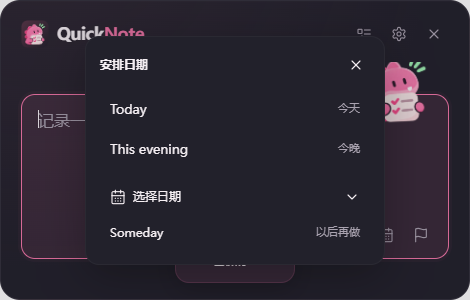
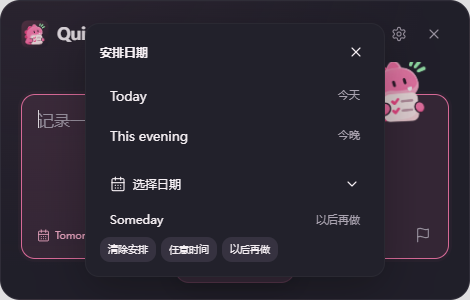
feat: animate date summaries and unify task capture

diff --git a/src/main.tsx b/src/main.tsx
@@ -1,4 +1,4 @@
-import{TimeWorkspace}from'./TimeWorkspace';import{TaskEditor,DatesFields,emptyDates,Dates}from'./TaskEditor';import{planGroup}from'./deadline';
+import{TimeWorkspace}from'./TimeWorkspace';import{TaskEditor,DatesFields,emptyDates,Dates}from'./TaskEditor';import{planGroup}from'./deadline';
 import React,{useEffect,useRef,useState}from'react';import{createRoot}from'react-dom/client';import{AnimatePresence,motion}from'framer-motion';import{ListTodo,Settings,X,Check,Pencil,Trash2,Search,ChevronDown,ChevronRight,Plus,ArrowLeft,Copy,Pin,CalendarDays,Inbox,CalendarCheck,CalendarRange,Layers,Sun,Moon,Monitor,Palette,Keyboard,SlidersHorizontal,Database,Info,Archive,RotateCcw,FolderOpen,Undo2,MoreHorizontal,RefreshCw,Clock}from'lucide-react';import{Note,day,tomorrow,weekEnd,group,sortNotes}from'./timeline';import './style.css';
 declare global{interface Window{quicknote:{call:(a:string,p?:unknown)=>Promise<any>;on:(e:string,f:(p:any)=>void)=>()=>void}}}const api=window.quicknote;const groups=['收件箱','今天','明天','本周','以后','已完成'];const groupIcons=[Inbox,CalendarCheck,CalendarDays,CalendarRange,Layers,Check];const settingTabs=[['appearance','外观',Palette],['shortcuts','快捷键',Keyboard],['behavior','行为',SlidersHorizontal],['reminders','提醒',Clock],['data','数据',Database],['about','关于',Info]]as const;
 function App(){const[cfg,C]=useState<any>({theme:'dark',view:'capture',notes:[],shortcutStatus:{}}),[notes,N]=useState<Note[]>([]),[text,T]=useState(''),[query,Q]=useState(''),[edit,E]=useState(''),[filter,B]=useState('收件箱'),[completed,H]=useState(false),[visible,V]=useState(true),[toast,F]=useState<{text:string;undo?:boolean}|null>(null),[recording,R]=useState(''),[settingsTab,ST]=useState('appearance'),[schedule,SD]=useState(''),[now,Now]=useState(new Date());const[taskEdit,TE]=useState<Note|null>(null),[creation,CD]=useState<Dates>(emptyDates),[calendarDate,CAL]=useState(day());const input=useRef<HTMLTextAreaElement>(null),ref=useRef<Note[]>([]),undo=useRef<Note[]|null>(null),saving=useRef(false),composing=useRef(false),compositionEnd=useRef(0),timer=useRef<ReturnType<typeof setTimeout>|undefined>(undefined),toastTimer=useRef<ReturnType<typeof setTimeout>|undefined>(undefined),textRef=useRef(''),editRef=useRef(''),dirty=useRef(false),writeQueue=useRef(Promise.resolve()),recordingRef=useRef('');ref.current=notes;editRef.current=edit;recordingRef.current=recording;
@@ -16,7 +16,7 @@ async function switchView(view:string){await flush();if(editRef.current){editRef
 async function restoreUndo(){if(!undo.current)return;const n=undo.current;if(await persist(n)){undo.current=null;msg('已撤销')}}
 useEffect(()=>{api.call('get').then(load);const unsub=[api.on('config',load),api.on('visibility',v=>{V(v);if(!v)flush()}),api.on('focus',()=>{V(true);setTimeout(()=>input.current?.focus(),20)}),api.on('edit',start),api.on('delete',remove),api.on('complete',toggle),api.on('pin',pin),api.on('schedule',start)];const keys=(e:KeyboardEvent)=>{if(e.key==='Escape'){e.preventDefault();if(recordingRef.current)R('');else if(document.querySelector('.task-editor'))TE(null);else{flush();api.call('hide')}}if(e.ctrlKey&&e.key.toLowerCase()==='z'&&!(e.target instanceof HTMLInputElement||e.target instanceof HTMLTextAreaElement)){e.preventDefault();restoreUndo()}};document.addEventListener('keydown',keys);const clock=setInterval(()=>Now(new Date()),60000);return()=>{unsub.forEach(f=>f?.());document.removeEventListener('keydown',keys);clearInterval(clock);clearTimeout(timer.current)}},[]);
 function openNewTask(){const date=new Date();let dueDate:string|null=null;if(filter==='今天')dueDate=day(date);if(filter==='明天')dueDate=tomorrow(date);if(filter==='本周')dueDate=weekEnd(date);if(filter==='即将到来'){date.setDate(date.getDate()+1);dueDate=day(date)}if(filter==='日历')dueDate=calendarDate;TE({id:'',text:textRef.current,created:Date.now(),done:false,dueDate,schedule:filter==='以后'?'later':filter==='任意时间'?'anytime':'inbox',deadlineDate:filter==='Deadline'?day():null})}
-async function add(){if(!text.trim()||saving.current||composing.current)return;if(cfg.view==='tasks'){openNewTask();return;}saving.current=true;try{await flush();const d=await api.call('commit',{text:textRef.current,id:editRef.current||undefined,context:cfg.view==='tasks'?filter:'收件箱',...(cfg.view==='capture'?creation:filter==='日历'?{dueDate:calendarDate,schedule:'inbox'}:{})});N(d.notes);ref.current=d.notes;E('');editRef.current='';dirty.current=false;setText(d.draft||'');CD({...emptyDates,...d.draftDates});msg('已保存');input.current?.focus()}catch(e){msg(String(e))}finally{saving.current=false}}
+async function add(){if(!text.trim()||saving.current||composing.current)return;saving.current=true;try{await flush();const d=await api.call('commit',{text:textRef.current,id:editRef.current||undefined,context:cfg.view==='tasks'?filter:'收件箱',...creation});N(d.notes);ref.current=d.notes;E('');editRef.current='';dirty.current=false;setText(d.draft||'');CD(cfg.view==='tasks'?{...emptyDates,dueDate:filter==='今天'?day():filter==='即将到来'?tomorrow():filter==='日历'?calendarDate:null,schedule:filter==='以后'?'later':filter==='任意时间'?'anytime':'inbox'}:{...emptyDates,...d.draftDates});msg('已保存');input.current?.focus()}catch(e){msg(String(e))}finally{saving.current=false}}
 async function setting(change:any){try{const d=await api.call('settings',{...cfg,...change});load(d)}catch(e){msg(String(e));const d=await api.call('get');C(d)}}
 function hotkey(e:React.KeyboardEvent,key:string){e.preventDefault();e.stopPropagation();if(e.key==='Escape'){R('');return}if(['Control','Shift','Alt','Meta'].includes(e.key))return;if(!(e.ctrlKey||e.altKey||e.metaKey)){msg('请使用 Ctrl、Alt 或 Win 组合键');return}const k=[e.ctrlKey?'Control':'',e.altKey?'Alt':'',e.shiftKey?'Shift':'',e.metaKey?'Super':'',e.code==='Space'?'Space':e.key.length===1?e.key.toUpperCase():e.key].filter(Boolean).join('+');setting({[key]:k});R('')}
 function plan(id:string,dueDate:string|null,later=false){persist(ref.current.map(n=>n.id===id?{...n,dueDate,schedule:later?'later':'inbox',updatedAt:Date.now()}:n));SD('')}
@@ -24,11 +24,12 @@ async function dataAction(action:string){await flush();if(action==='restore'){ed
 async function saveTask(n:Note){if(n.id)return persist(ref.current.map(x=>x.id===n.id?n:x));try{const d=await api.call('commit',n);N(d.notes);ref.current=d.notes;dirty.current=false;setText(d.draft||'');msg('已保存');return true}catch(e){msg(String(e));return false}}
 function changeCreation(v:Dates){CD(v);api.call('draft-meta',v).catch(e=>msg(String(e)))}
 const mode=cfg.view||'capture',theme=cfg.theme==='system'?(cfg.systemDark?'dark':'light'):cfg.theme;const filtered=notes.filter(n=>n.text.toLowerCase().includes(query.toLowerCase())),pending=filtered.filter(n=>!n.done).sort(sortNotes),done=filtered.filter(n=>n.done).sort((a,b)=>(b.completedAt||b.created)-(a.completedAt||a.created));const recent=[...notes].sort((a,b)=>b.created-a.created).slice(0,3);
-const editor=<textarea ref={input} rows={2} placeholder={mode==='capture'?'记录一件未完成的事情...':'添加一项待办...'} value={text} onChange={e=>changeText(e.target.value)} onCompositionStart={()=>{composing.current=true}} onCompositionEnd={()=>{composing.current=false;compositionEnd.current=Date.now()}} onKeyDown={e=>{if(e.key==='Enter'&&!e.shiftKey&&!composing.current&&!e.nativeEvent.isComposing&&e.keyCode!==229&&Date.now()-compositionEnd.current>80){e.preventDefault();add()}}}/>;
+const editor=<textarea ref={input} rows={2} placeholder={cfg.capturePlaceholder||'记录一件未完成的事情...'} value={text} onChange={e=>changeText(e.target.value)} onCompositionStart={()=>{composing.current=true}} onCompositionEnd={()=>{composing.current=false;compositionEnd.current=Date.now()}} onKeyDown={e=>{if(e.key==='Enter'&&!e.shiftKey&&!composing.current&&!e.nativeEvent.isComposing&&e.keyCode!==229&&Date.now()-compositionEnd.current>80){e.preventDefault();add()}}}/>;
 function row(n:Note,compact=false){return <motion.div layout data-task={n.id} className={'task '+(n.done?'done ':'')+(n.isPinned?'pinned':'')} key={n.id} initial={{opacity:0,y:4}} animate={{opacity:1,y:0}} exit={{opacity:0,height:0}} transition={{duration:.18}} onContextMenu={e=>{e.preventDefault();api.call('context',n.id)}}><button className="check" title="切换完成" onClick={()=>toggle(n.id)}>{n.done&&<Check/>}</button><div className="task-body"><p>{n.isPinned&&<Pin className="pink"/>}{n.text}</p><small>{n.dueDate?<><CalendarDays/> {n.dueDate}{n.dueDate<day(now)&&!n.done?' · 计划待重排':''}</>:new Date(n.created).toLocaleString('zh-CN',{month:'numeric',day:'numeric',hour:'2-digit',minute:'2-digit'})}</small></div><div className="actions"><button title={n.isPinned?'取消置顶':'重要置顶'} onClick={()=>pin(n.id)}><Pin/></button>{!compact&&<button title="计划日期" onClick={()=>SD(schedule===n.id?'':n.id)}><CalendarDays/></button>}<button title="编辑" onClick={()=>start(n.id)}><Pencil/></button><button title="复制" onClick={()=>{api.call('copy',n.text);msg('已复制')}}><Copy/></button><button title="删除" onClick={()=>remove(n.id)}><Trash2/></button></div></motion.div>}
 return <motion.main data-theme={theme} className={mode} animate={{opacity:visible?1:0,scale:visible?1:.99,y:visible?0:-4}} transition={{duration:.2,ease:'easeOut'}}><header><div className="brand">{mode!=='capture'&&<button title="快速记录" onClick={()=>switchView('capture')}><ArrowLeft/></button>}<img src={theme==='light'?'./app-icon-light.png':'./app-icon.png'} alt=""/><span>{mode==='capture'?<>Quick<span className="pink">Note</span></>:mode==='tasks'?'待办事项':'偏好设置'}</span>{mode==='tasks'&&<small>{notes.filter(n=>!n.done).length}</small>}</div><div className="tools">{mode!=='tasks'&&<button title="查看待办" onClick={()=>switchView('tasks')}><ListTodo/></button>}{mode==='tasks'&&<button title="打开日历" onClick={()=>B(filter==='日历'?'全部':'日历')}><CalendarDays/></button>}{mode!=='settings'&&<button title="设置" onClick={()=>switchView('settings')}><Settings/></button>}<button title="关闭" onClick={()=>{flush();api.call('hide')}}><X/></button></div></header>
-{mode==='capture'?<section className="capture-body"><img className="capture-mascot" src="./brand/mascot.png" alt=""/><div className={'capture-input '+(toast?.text==='已保存'?'saved':'')}>{editor}<DatesFields compact value={creation} onChange={changeCreation}/></div></section>:mode==='tasks'?<TimeWorkspace notes={notes} filter={filter} onFilter={B} onEdit={TE} onToggle={toggle} onPin={pin} onDelete={remove} onCopy={s=>{api.call('copy',s);msg('已复制')}} editor={editor} now={now} horizon={cfg.deadlineHorizon||3} onDate={CAL} onNew={openNewTask}/>:<div className="split"><nav>{settingTabs.map(([key,label,Icon])=><button key={key} className={settingsTab===key?'selected':''} onClick={()=>ST(key)}><Icon/>{label}</button>)}<img className="nav-mascot" src="./brand/settings.png" alt=""/></nav><section className="settings-body"><h2>{settingTabs.find(t=>t[0]===settingsTab)?.[1]}</h2>{settingsTab==='appearance'?<><p className="muted">让 QuickNote 与你的桌面相处融洽。</p><div className="theme-choices">{[['dark','深色',Moon],['light','浅色',Sun],['system','跟随系统',Monitor]].map(([v,label,Icon]:any)=><button key={v} className={cfg.theme===v?'chosen':''} onClick={()=>setting({theme:v})}><Icon/><span>{label}</span></button>)}</div><div className="brand-preview"><img src="./brand/mascot.png" alt=""/><div><b>轻轻记下，慢慢完成。</b><p>QuickNote · Pink Edition</p></div></div></>:settingsTab==='shortcuts'?<><p className="muted">点击组合键，再按下新的快捷键。</p>{[['shortcut','快速记录',Pencil],['tasksShortcut','查看待办',ListTodo]].map(([key,label,Icon]:any)=>{const status=cfg.shortcutStatus?.[key];return <div className="shortcut-card" key={key}><div className="setting-row"><span><Icon/>{label}</span><button className={'keycap '+(recording===key?'listening':'')} onClick={()=>R(key)} onKeyDown={e=>{if(recording===key)hotkey(e,key)}}>{recording===key?'请按下组合键…':cfg[key]?.replaceAll('Control','Ctrl')}</button></div><div className={'registration '+(status?.registered?'success':status?.status==='conflict'?'warning':'error')}>{status?.registered?<Check/>:<Info/>}{status?.registered?'已成功注册':status?.message||'未注册'}</div></div>})}<button className="secondary" onClick={()=>api.call('retry-shortcuts').then(load).catch(e=>msg(String(e)))}><RefreshCw/>重新检测并注册</button></>:settingsTab==='behavior'?<>{[['startup','开机启动'],['background','启动后后台运行'],['keepOpen','保存后保持窗口打开'],['hideOnBlur','点击窗口外部自动隐藏']].map(([key,label])=><div className="setting-row option" key={key}><span>{label}</span><button role="switch" aria-label={label} aria-checked={!!cfg[key]} className={'toggle '+(cfg[key]?'on':'')} onClick={()=>setting({[key]:!cfg[key]})}><span/></button></div>)}</>:settingsTab==='reminders'?<><p className='muted'>提醒仅在 QuickNote 运行时发送；退出后不会发送。重启后恢复待触发提醒。</p><div className='setting-row option'><span>启用 Windows 通知</span><button role='switch' aria-label='启用通知' aria-checked={!!cfg.notificationsEnabled} className={'toggle '+(cfg.notificationsEnabled?'on':'')} onClick={()=>setting({notificationsEnabled:!cfg.notificationsEnabled})}><span/></button></div><label className='setting-row'>即将截止范围（自然日）<input type='number' min='1' max='14' value={cfg.deadlineHorizon||3} onChange={e=>setting({deadlineHorizon:Number(e.target.value)})}/></label><button className='secondary' onClick={()=>api.call('notification-test').then(()=>msg('已请求发送通知，请检查系统通知设置')).catch(e=>msg(String(e)))}>测试通知</button></>:settingsTab==='data'?<><div className="backup-info"><Archive/><div><b>每日自动备份</b><p>最近备份：{cfg.lastBackup||'尚无备份'} · 保留最近 7 份</p></div></div>{cfg.backupWarning&&<p className="warning">{cfg.backupWarning}</p>}<div className="data-grid">{[['export','导出全部数据',Archive],['import','导入记录',Database],['restore','从备份恢复',RotateCcw],['path','打开保存位置',FolderOpen]].map(([a,label,Icon]:any)=><button key={a} onClick={()=>dataAction(a)}><Icon/>{label}</button>)}</div><p className="muted">恢复前校验版本与记录，并备份当前数据。导入只合并任务；恢复会替换任务、设置与草稿。</p></>:<div className="about"><img src={theme==='light'?'./app-icon-light.png':'./app-icon.png'} alt="QuickNote"/><h2>QuickNote</h2><span>版本 {cfg.version||'4.0.0'}</span><p>快捷键驱动的本地快速记录与时间待办。</p><small>个人使用的非官方二创视觉，素材由用户提供。</small><h3>开源依赖与许可证</h3><p>React / React DOM · MIT<br/>Electron · MIT<br/>Framer Motion · MIT<br/>Lucide · ISC<br/>Vite · MIT / TypeScript · Apache-2.0</p><a href="./licenses.txt" target="_blank" onClick={e=>{e.preventDefault();api.call('licenses').catch(e=>msg(String(e)))}}>查看许可证说明</a></div>}</section></div>}
+{mode==='capture'?<section className="capture-body"><img className="capture-mascot" src="./brand/mascot.png" alt=""/><div className={'capture-input '+(toast?.text==='已保存'?'saved':'')}>{editor}<DatesFields compact value={creation} onChange={changeCreation}/></div></section>:mode==='tasks'?<TimeWorkspace notes={notes} filter={filter} onFilter={v=>{B(v);let dueDate:string|null=null;const d=new Date();if(v==='今天')dueDate=day(d);if(v==='即将到来')dueDate=tomorrow(d);if(v==='日历')dueDate=calendarDate;changeCreation({...emptyDates,dueDate,schedule:v==='以后'?'later':v==='任意时间'?'anytime':'inbox'})}} onEdit={TE} onToggle={toggle} onPin={pin} onDelete={remove} onCopy={s=>{api.call('copy',s);msg('已复制')}} editor={<div className="task-capture">{editor}<DatesFields compact value={creation} onChange={changeCreation}/></div>} now={now} horizon={cfg.deadlineHorizon||3} onDate={d=>{CAL(d);changeCreation({...emptyDates,dueDate:d})}} onNew={openNewTask}/>:<div className="split"><nav>{settingTabs.map(([key,label,Icon])=><button key={key} className={settingsTab===key?'selected':''} onClick={()=>ST(key)}><Icon/>{label}</button>)}<img className="nav-mascot" src="./brand/settings.png" alt=""/></nav><section className="settings-body"><h2>{settingTabs.find(t=>t[0]===settingsTab)?.[1]}</h2>{settingsTab==='appearance'?<><p className="muted">让 QuickNote 与你的桌面相处融洽。</p><div className="theme-choices">{[['dark','深色',Moon],['light','浅色',Sun],['system','跟随系统',Monitor]].map(([v,label,Icon]:any)=><button key={v} className={cfg.theme===v?'chosen':''} onClick={()=>setting({theme:v})}><Icon/><span>{label}</span></button>)}</div><label className="placeholder-setting">快速记录占位文字<input maxLength={100} aria-label="快速记录占位文字" defaultValue={cfg.capturePlaceholder||'记录一件未完成的事情...'} onBlur={e=>setting({capturePlaceholder:e.target.value.trim()||'记录一件未完成的事情...'})}/><small>编辑后离开输入框即保存</small></label><div className="brand-preview"><img src="./brand/mascot.png" alt=""/><div><b>轻轻记下，慢慢完成。</b><p>QuickNote · Pink Edition</p></div></div></>:settingsTab==='shortcuts'?<><p className="muted">点击组合键，再按下新的快捷键。</p>{[['shortcut','快速记录',Pencil],['tasksShortcut','查看待办',ListTodo]].map(([key,label,Icon]:any)=>{const status=cfg.shortcutStatus?.[key];return <div className="shortcut-card" key={key}><div className="setting-row"><span><Icon/>{label}</span><button className={'keycap '+(recording===key?'listening':'')} onClick={()=>R(key)} onKeyDown={e=>{if(recording===key)hotkey(e,key)}}>{recording===key?'请按下组合键…':cfg[key]?.replaceAll('Control','Ctrl')}</button></div><div className={'registration '+(status?.registered?'success':status?.status==='conflict'?'warning':'error')}>{status?.registered?<Check/>:<Info/>}{status?.registered?'已成功注册':status?.message||'未注册'}</div></div>})}<button className="secondary" onClick={()=>api.call('retry-shortcuts').then(load).catch(e=>msg(String(e)))}><RefreshCw/>重新检测并注册</button></>:settingsTab==='behavior'?<>{[['startup','开机启动'],['background','启动后后台运行'],['keepOpen','保存后保持窗口打开'],['hideOnBlur','点击窗口外部自动隐藏']].map(([key,label])=><div className="setting-row option" key={key}><span>{label}</span><button role="switch" aria-label={label} aria-checked={!!cfg[key]} className={'toggle '+(cfg[key]?'on':'')} onClick={()=>setting({[key]:!cfg[key]})}><span/></button></div>)}</>:settingsTab==='reminders'?<><p className='muted'>提醒仅在 QuickNote 运行时发送；退出后不会发送。重启后恢复待触发提醒。</p><div className='setting-row option'><span>启用 Windows 通知</span><button role='switch' aria-label='启用通知' aria-checked={!!cfg.notificationsEnabled} className={'toggle '+(cfg.notificationsEnabled?'on':'')} onClick={()=>setting({notificationsEnabled:!cfg.notificationsEnabled})}><span/></button></div><label className='setting-row'>即将截止范围（自然日）<input type='number' min='1' max='14' value={cfg.deadlineHorizon||3} onChange={e=>setting({deadlineHorizon:Number(e.target.value)})}/></label><button className='secondary' onClick={()=>api.call('notification-test').then(()=>msg('已请求发送通知，请检查系统通知设置')).catch(e=>msg(String(e)))}>测试通知</button></>:settingsTab==='data'?<><div className="backup-info"><Archive/><div><b>每日自动备份</b><p>最近备份：{cfg.lastBackup||'尚无备份'} · 保留最近 7 份</p></div></div>{cfg.backupWarning&&<p className="warning">{cfg.backupWarning}</p>}<div className="data-grid">{[['export','导出全部数据',Archive],['import','导入记录',Database],['restore','从备份恢复',RotateCcw],['path','打开保存位置',FolderOpen]].map(([a,label,Icon]:any)=><button key={a} onClick={()=>dataAction(a)}><Icon/>{label}</button>)}</div><p className="muted">恢复前校验版本与记录，并备份当前数据。导入只合并任务；恢复会替换任务、设置与草稿。</p></>:<div className="about"><img src={theme==='light'?'./app-icon-light.png':'./app-icon.png'} alt="QuickNote"/><h2>QuickNote</h2><span>版本 {cfg.version||'4.0.0'}</span><p>快捷键驱动的本地快速记录与时间待办。</p><small>个人使用的非官方二创视觉，素材由用户提供。</small><h3>开源依赖与许可证</h3><p>React / React DOM · MIT<br/>Electron · MIT<br/>Framer Motion · MIT<br/>Lucide · ISC<br/>Vite · MIT / TypeScript · Apache-2.0</p><a href="./licenses.txt" target="_blank" onClick={e=>{e.preventDefault();api.call('licenses').catch(e=>msg(String(e)))}}>查看许可证说明</a></div>}</section></div>}
 {taskEdit&&<TaskEditor key={taskEdit.id||'new'} task={taskEdit} onSave={saveTask} onClose={()=>TE(null)}/>}<AnimatePresence>{toast&&<motion.div className="toast" initial={{opacity:0,y:12}} animate={{opacity:1,y:0}} exit={{opacity:0,y:8}}><Check/><span>{toast.text}</span>{toast.undo&&<button onClick={restoreUndo}><Undo2/>撤销</button>}<button title="关闭提示" onClick={()=>F(null)}><X/></button></motion.div>}</AnimatePresence></motion.main>};createRoot(document.getElementById('root')!).render(<App/>);
 
 
 import './time.css';
+

diff --git a/src/TaskEditor.tsx b/src/TaskEditor.tsx
@@ -1,5 +1,5 @@
-import{MonthPicker}from'./MonthPicker';import React,{useState,useEffect}from'react';import{X,CalendarDays,Bell,Pin,ChevronDown}from'lucide-react';import{DeadlineIcon}from'./DeadlineIcon';import{Note,day,tomorrow}from'./timeline';import{shift,deadlineAt}from'./deadline';
+import{motion,AnimatePresence}from'framer-motion';import{dateSummary,daysLeft}from'./date-summary';import{MonthPicker}from'./MonthPicker';import React,{useState,useEffect}from'react';import{X,CalendarDays,Bell,Pin,ChevronDown}from'lucide-react';import{DeadlineIcon}from'./DeadlineIcon';import{Note,day,tomorrow}from'./timeline';import{shift,deadlineAt}from'./deadline';
 export type Dates={dueDate:string|null;schedule:string;planPeriod?:string;deadlineDate:string|null;deadlineTime:string|null;reminderAt:number|null;isPinned:boolean};export const emptyDates:Dates={dueDate:null,schedule:'inbox',planPeriod:'day',deadlineDate:null,deadlineTime:null,reminderAt:null,isPinned:false};
 const localInput=(t:number|null)=>{if(!t)return '';const d=new Date(t);return `${day(d)}T${String(d.getHours()).padStart(2,'0')}:${String(d.getMinutes()).padStart(2,'0')}`};
-export function DatesFields({value:v,onChange,compact=false}:{value:Dates;onChange:(v:Dates)=>void;compact?:boolean}){const[open,O]=useState<'plan'|'deadline'|null>(null),[more,M]=useState(false),[calendar,C]=useState(false);useEffect(()=>{if(compact)window.quicknote.call('picker-size',open&&(calendar||open==='deadline')?480:300).catch(()=>{});return()=>{if(compact)window.quicknote.call('picker-size',300).catch(()=>{})}},[open,calendar,compact]);const set=(p:Partial<Dates>)=>onChange({...v,...p});useEffect(()=>{if(!open)return;const close=(e:KeyboardEvent)=>{if(e.key==='Escape'){e.preventDefault();e.stopImmediatePropagation();O(null)}};window.addEventListener('keydown',close,true);return()=>window.removeEventListener('keydown',close,true)},[open]);return <div className={'dates-fields date-summary '+(compact?'compact':'')}><div className="date-chips"><button aria-expanded={open==='plan'} title="安排计划日期" className={v.dueDate||v.schedule==='later'?'active':''} onClick={()=>O(open==='plan'?null:'plan')}><CalendarDays/>{v.dueDate===day()&&v.planPeriod==='evening'?'今晚':v.dueDate===day()?'今天':v.dueDate===tomorrow()?'明天':v.dueDate|| (v.schedule==='later'?'以后':v.schedule==='anytime'?'任意时间':'安排')}</button><button aria-expanded={open==='deadline'} title="设置截止日期" className={v.deadlineDate?'active':''} onClick={()=>O(open==='deadline'?null:'deadline')}><DeadlineIcon/>{v.deadlineDate?`${v.deadlineDate} 截止`:'截止'}</button>{!compact&&<button className={v.isPinned?'pink':''} onClick={()=>set({isPinned:!v.isPinned})}><Pin/>{v.isPinned?'重要置顶':'标记重要'}</button>}</div>{open&&<div className="date-popover-shade" onClick={()=>O(null)}><section className="date-popover" role="dialog" aria-label={open==='plan'?'安排日期':'截止日期'} onClick={e=>e.stopPropagation()}><div className="plan-title"><b>{open==='plan'?'安排日期':'截止日期'}</b><button title="关闭日期浮层" onClick={()=>O(null)}><X/></button></div>{open==='plan'&&<div className="when-shortcuts"><button onClick={()=>{set({dueDate:day(),schedule:'inbox',planPeriod:'day'});O(null)}}>Today <span>今天</span></button><button onClick={()=>{set({dueDate:day(),schedule:'inbox',planPeriod:'evening'});O(null)}}>This evening <span>今晚</span></button></div>}{open==='plan'&&<button className="expand-calendar" aria-expanded={calendar} onClick={()=>C(!calendar)}><CalendarDays/>选择日期<ChevronDown/></button>}{(calendar||open==='deadline')&&<MonthPicker value={open==='plan'?v.dueDate:v.deadlineDate} onSelect={date=>{set(open==='plan'?{dueDate:date,schedule:'inbox',planPeriod:'day'}:{deadlineDate:date,...(compact?{deadlineTime:null}:{})});O(null)}}/>}{open==='plan'&&<button className="someday-shortcut" onClick={()=>{set({dueDate:null,schedule:'later',planPeriod:'day'});O(null)}}>Someday <span>以后再做</span></button>}{open==='plan'?(!compact&&<div className="date-chips"><button onClick={()=>{set({dueDate:null,schedule:'inbox',planPeriod:'day'});O(null)}}>移回收件箱</button><button onClick={()=>{set({dueDate:null,schedule:'anytime',planPeriod:'day'});O(null)}}>任意时间</button><button onClick={()=>{set({dueDate:null,schedule:'later',planPeriod:'day'});O(null)}}>以后再做</button></div>):<>{!compact&&<><button className="popover-more" aria-expanded={more} onClick={()=>M(!more)}><ChevronDown/>更多选项{v.deadlineTime||v.reminderAt?' · 已设置':''}</button>{more&&<div className="popover-options"><label>截止时间（可选）<input aria-label="截止时间" type="time" disabled={!v.deadlineDate} value={v.deadlineTime||''} onChange={e=>set({deadlineTime:e.target.value||null})}/></label><label><Bell/>提醒<input aria-label="提醒时间" type="datetime-local" value={localInput(v.reminderAt)} onChange={e=>set({reminderAt:e.target.value?new Date(e.target.value).getTime():null})}/></label><div className="date-chips">{[['不提醒',null],['前1天',86400000],['前3小时',10800000],['前1小时',3600000]].map(([label,offset])=><button key={String(label)} disabled={offset!==null&&!v.deadlineDate} onClick={()=>set({reminderAt:offset===null?null:(deadlineAt(v as unknown as Note)??Date.now())-Number(offset)})}>{label}</button>)}</div>{v.reminderAt&&v.deadlineDate&&v.reminderAt>(deadlineAt(v as unknown as Note)??Infinity)&&<p className="warning">提醒晚于截止时间，请确认。</p>}</div>}</>}<button className="popover-clear" onClick={()=>{set({deadlineDate:null,deadlineTime:null});O(null)}}>清除截止日期</button></>}</section></div>}</div>}
+export function DatesFields({value:v,onChange,compact=false}:{value:Dates;onChange:(v:Dates)=>void;compact?:boolean}){const[open,O]=useState<'plan'|'deadline'|null>(null),[more,M]=useState(false),[calendar,C]=useState(false);useEffect(()=>{if(compact)window.quicknote.call('picker-size',open&&(calendar||open==='deadline')?480:300).catch(()=>{});return()=>{if(compact)window.quicknote.call('picker-size',300).catch(()=>{})}},[open,calendar,compact]);const set=(p:Partial<Dates>)=>onChange({...v,...p});useEffect(()=>{if(!open)return;const close=(e:KeyboardEvent)=>{if(e.key==='Escape'){e.preventDefault();e.stopImmediatePropagation();O(null)}};window.addEventListener('keydown',close,true);return()=>window.removeEventListener('keydown',close,true)},[open]);return <div className={'dates-fields date-summary '+(compact?'compact':'')}><div className="selected-dates"><AnimatePresence initial={false}>{(v.dueDate||v.schedule==='later'||v.schedule==='anytime')&&<motion.button layout key="plan-label" className="date-label" title="安排计划日期" initial={{opacity:0,x:12}} animate={{opacity:1,x:0}} exit={{opacity:0,x:8}} onClick={()=>O('plan')}><CalendarDays/><span>{v.dueDate?(v.planPeriod==='evening'&&v.dueDate===day()?'This evening':dateSummary(v.dueDate)):v.schedule==='later'?'Someday':'Anytime'}</span></motion.button>}{v.deadlineDate&&<motion.button layout key="deadline-label" className="date-label" title="设置截止日期" initial={{opacity:0,x:12}} animate={{opacity:1,x:0}} exit={{opacity:0,x:8}} onClick={()=>O('deadline')}><DeadlineIcon/><span>{dateSummary(v.deadlineDate)} · {daysLeft(v.deadlineDate)}</span></motion.button>}</AnimatePresence></div><div className="date-chips date-entry-icons"><AnimatePresence initial={false}>{!v.dueDate&&v.schedule!=='later'&&v.schedule!=='anytime'&&<motion.button key="plan-icon" title="安排计划日期" initial={{opacity:0}} animate={{opacity:1}} exit={{opacity:0,scale:.85}} onClick={()=>O('plan')}><CalendarDays/></motion.button>}{!v.deadlineDate&&<motion.button key="deadline-icon" title="设置截止日期" initial={{opacity:0}} animate={{opacity:1}} exit={{opacity:0,scale:.85}} onClick={()=>O('deadline')}><DeadlineIcon/></motion.button>}</AnimatePresence>{!compact&&<button className={v.isPinned?'pink':''} onClick={()=>set({isPinned:!v.isPinned})}><Pin/></button>}</div>{open&&<div className="date-popover-shade" onClick={()=>O(null)}><section className="date-popover" role="dialog" aria-label={open==='plan'?'安排日期':'截止日期'} onClick={e=>e.stopPropagation()}><div className="plan-title"><b>{open==='plan'?'安排日期':'截止日期'}</b><button title="关闭日期浮层" onClick={()=>O(null)}><X/></button></div>{open==='plan'&&<div className="when-shortcuts"><button onClick={()=>{set({dueDate:day(),schedule:'inbox',planPeriod:'day'});O(null)}}>Today <span>今天</span></button><button onClick={()=>{set({dueDate:day(),schedule:'inbox',planPeriod:'evening'});O(null)}}>This evening <span>今晚</span></button></div>}{open==='plan'&&<button className="expand-calendar" aria-expanded={calendar} onClick={()=>C(!calendar)}><CalendarDays/>选择日期<ChevronDown/></button>}{(calendar||open==='deadline')&&<MonthPicker value={open==='plan'?v.dueDate:v.deadlineDate} onSelect={date=>{set(open==='plan'?{dueDate:date,schedule:'inbox',planPeriod:'day'}:{deadlineDate:date,...(compact?{deadlineTime:null}:{})});O(null)}}/>}{open==='plan'&&<button className="someday-shortcut" onClick={()=>{set({dueDate:null,schedule:'later',planPeriod:'day'});O(null)}}>Someday <span>以后再做</span></button>}{open==='plan'?(<div className="date-chips"><button onClick={()=>{set({dueDate:null,schedule:'inbox',planPeriod:'day'});O(null)}}>清除安排</button><button onClick={()=>{set({dueDate:null,schedule:'anytime',planPeriod:'day'});O(null)}}>任意时间</button><button onClick={()=>{set({dueDate:null,schedule:'later',planPeriod:'day'});O(null)}}>以后再做</button></div>):<>{!compact&&<><button className="popover-more" aria-expanded={more} onClick={()=>M(!more)}><ChevronDown/>更多选项{v.deadlineTime||v.reminderAt?' · 已设置':''}</button>{more&&<div className="popover-options"><label>截止时间（可选）<input aria-label="截止时间" type="time" disabled={!v.deadlineDate} value={v.deadlineTime||''} onChange={e=>set({deadlineTime:e.target.value||null})}/></label><label><Bell/>提醒<input aria-label="提醒时间" type="datetime-local" value={localInput(v.reminderAt)} onChange={e=>set({reminderAt:e.target.value?new Date(e.target.value).getTime():null})}/></label><div className="date-chips">{[['不提醒',null],['前1天',86400000],['前3小时',10800000],['前1小时',3600000]].map(([label,offset])=><button key={String(label)} disabled={offset!==null&&!v.deadlineDate} onClick={()=>set({reminderAt:offset===null?null:(deadlineAt(v as unknown as Note)??Date.now())-Number(offset)})}>{label}</button>)}</div>{v.reminderAt&&v.deadlineDate&&v.reminderAt>(deadlineAt(v as unknown as Note)??Infinity)&&<p className="warning">提醒晚于截止时间，请确认。</p>}</div>}</>}<button className="popover-clear" onClick={()=>{set({deadlineDate:null,deadlineTime:null});O(null)}}>清除截止日期</button></>}</section></div>}</div>}
 export function TaskEditor({task,onSave,onClose}:{task:Note;onSave:(n:Note)=>Promise<boolean>;onClose:()=>void}){const[n,N]=useState(task),[busy,B]=useState(false),[err,E]=useState('');return <div className="editor-shade" onClick={onClose}><section className="task-editor" role="dialog" aria-label="任务编辑" onClick={e=>e.stopPropagation()}><div className="plan-title"><b>任务详情</b><button title="关闭编辑" onClick={onClose}><X/></button></div><textarea autoFocus aria-label="任务内容" value={n.text} onChange={e=>N({...n,text:e.target.value})}/><DatesFields value={{...emptyDates,...n}} onChange={v=>N({...n,...v})}/>{err&&<p className="error">{err}</p>}<button className="editor-save" disabled={busy||!n.text.trim()} onClick={async()=>{B(true);try{if(await onSave({...n,text:n.text.trim(),updatedAt:Date.now()}))onClose();else E('保存失败，请重试')}catch(e){E(String(e))}finally{B(false)}}}>{busy?'保存中…':'保存任务'}</button></section></div>}

diff --git a/src/TimeWorkspace.tsx b/src/TimeWorkspace.tsx
@@ -4,7 +4,7 @@ function row(n:Note){const u=urgency(n,now,horizon);return <motion.div layout ke
 const completed=isDDL?[]:notes.filter(n=>n.done&&n.text.toLowerCase().includes(q.toLowerCase())),active=list.filter(n=>!n.done);const titles=isDDL?['已逾期','今天截止','即将截止','稍后截止']:['逾期待安排','收件箱','今天','明天',...Array.from(new Set(active.filter(n=>['本周剩余','即将到来'].includes(planGroup(n,now))).map(n=>n.dueDate!))).sort(),'任意时间','以后'];const count=(v:string)=>notes.filter(n=>inView(n,v,now)&&!n.done).length;
 const first=new Date(month.getFullYear(),month.getMonth(),1),start=new Date(first);start.setDate(1-((first.getDay()+6)%7));const dates=Array.from({length:42},(_,i)=>{const d=new Date(start);d.setDate(start.getDate()+i);return d});const calendarNotes=notes.filter(n=>(n.dueDate===selected||n.deadlineDate===selected)&&n.text.toLowerCase().includes(q.toLowerCase())).sort(sortNotes);
 return <div className="split tasks-layout"><nav>{nav.map(([key,label,Icon])=><button key={key} className={filter===key?'selected':''} onClick={()=>{onFilter(key);}}>{key==='Deadline'?<DeadlineIcon/>:<Icon/>}{label}<small>{key==='日历'?'':count(key)||''}</small></button>)}<img className="nav-mascot" src={isDDL?'./brand/deadline.png':'./brand/clock.png'} alt=""/></nav><div className="tasks-main"><div className="search"><Search/><input aria-label="搜索任务" placeholder={isDDL?'搜索截止任务、计划日期或截止日期':'搜索任务'} value={q} onChange={e=>Q(e.target.value)}/></div>{isDDL&&<div className="deadline-controls"><div className="date-chips">{['全部','已逾期','今天截止','未来3天','未来7天','范围'].map(v=><button key={v} className={scope===v?'active':''} onClick={()=>S(v)}>{v}</button>)}</div>{scope==='范围'&&<div className="range"><input aria-label="截止范围开始" type="date" value={from} onChange={e=>F(e.target.value)}/><span>至</span><input aria-label="截止范围结束" type="date" value={to} onChange={e=>T(e.target.value)}/></div>}<div className="date-chips">{[['asc','截止↑'],['desc','截止↓'],['pinned','重要优先'],['created','创建时间']].map(([k,l])=><button className={sort===k?'active':''} key={k} onClick={()=>SO(k)}>{l}</button>)}</div></div>}
-<section className="list">{filter==='日历'?<><div className="calendar-head"><button title="上个月" onClick={()=>M(new Date(month.getFullYear(),month.getMonth()-1,1))}><ChevronLeft/></button><b>{month.getFullYear()} 年 {month.getMonth()+1} 月</b><button title="下个月" onClick={()=>M(new Date(month.getFullYear(),month.getMonth()+1,1))}><ChevronRight/></button><button onClick={()=>{M(new Date(now.getFullYear(),now.getMonth(),1));D(day(now));onDate(day(now))}}>今天</button></div><div className="calendar-week">{['一','二','三','四','五','六','日'].map(s=><span key={s}>{s}</span>)}</div><div className="calendar-grid">{dates.map(d=>{const value=day(d),plan=notes.some(n=>n.dueDate===value),ddl=notes.some(n=>n.deadlineDate===value);return <button key={value} className={(selected===value?'selected ':'')+(d.getMonth()!==month.getMonth()?'other-month':'')} onClick={()=>{D(value);onDate(value)}}><span>{d.getDate()}</span><div>{plan&&<i className="plan-dot"/>}{ddl&&<DeadlineIcon/>}</div></button>})}</div><h3 className="calendar-day-title">{selected}<button onClick={()=>{onEdit({id:'',text:'',done:false,created:Date.now(),dueDate:selected})}}><Plus/>添加当天任务</button></h3>{calendarNotes.length?calendarNotes.map(row):<p className="muted">当天暂无记录，可直接在下方输入添加。</p>}</>:<>{titles.map(title=>{const items=active.filter(n=>(isDDL?urgency(n,now,horizon):/^\d{4}-/.test(title)?n.dueDate:planGroup(n,now))===title);return items.length?<section className={'time-group '+(title==='已逾期'?'deadline-overdue':'')} key={title}><h3><span className="node"/>{title}{!isDDL&&/^\d{4}-/.test(title)?' · '+new Date(title+'T12:00:00').toLocaleDateString('zh-CN',{weekday:'short'}):''}<small>{items.length}</small></h3><AnimatePresence initial={false}>{items.map(row)}</AnimatePresence></section>:null})}{!active.length&&filter!=='已完成'&&<div className="empty"><img src={isDDL?'./brand/deadline.png':'./brand/tasks.png'} alt=""/><p>{isDDL?'没有符合条件的截止任务':'暂无匹配任务'}</p></div>}{completed.length>0&&<><button className="completed-toggle" onClick={()=>E(!expanded)}>{expanded?<ChevronDown/>:<ChevronRight/>}{isDDL?'已完成的截止任务':'已完成'} · {completed.length}</button><AnimatePresence>{expanded&&completed.map(row)}</AnimatePresence></>}</>}</section><div className="composer"><button className="new-task-button" title="新建任务并选择日期" onClick={onNew}><Plus/></button>{editor}</div></div></div>}
+<section className="list">{filter==='日历'?<><div className="calendar-head"><button title="上个月" onClick={()=>M(new Date(month.getFullYear(),month.getMonth()-1,1))}><ChevronLeft/></button><b>{month.getFullYear()} 年 {month.getMonth()+1} 月</b><button title="下个月" onClick={()=>M(new Date(month.getFullYear(),month.getMonth()+1,1))}><ChevronRight/></button><button onClick={()=>{M(new Date(now.getFullYear(),now.getMonth(),1));D(day(now));onDate(day(now))}}>今天</button></div><div className="calendar-week">{['一','二','三','四','五','六','日'].map(s=><span key={s}>{s}</span>)}</div><div className="calendar-grid">{dates.map(d=>{const value=day(d),plan=notes.some(n=>n.dueDate===value),ddl=notes.some(n=>n.deadlineDate===value);return <button key={value} className={(selected===value?'selected ':'')+(d.getMonth()!==month.getMonth()?'other-month':'')} onClick={()=>{D(value);onDate(value)}}><span>{d.getDate()}</span><div>{plan&&<i className="plan-dot"/>}{ddl&&<DeadlineIcon/>}</div></button>})}</div><h3 className="calendar-day-title">{selected}<button onClick={()=>{onEdit({id:'',text:'',done:false,created:Date.now(),dueDate:selected})}}><Plus/>添加当天任务</button></h3>{calendarNotes.length?calendarNotes.map(row):<p className="muted">当天暂无记录，可直接在下方输入添加。</p>}</>:<>{titles.map(title=>{const items=active.filter(n=>(isDDL?urgency(n,now,horizon):/^\d{4}-/.test(title)?n.dueDate:planGroup(n,now))===title);return items.length?<section className={'time-group '+(title==='已逾期'?'deadline-overdue':'')} key={title}><h3><span className="node"/>{title}{!isDDL&&/^\d{4}-/.test(title)?' · '+new Date(title+'T12:00:00').toLocaleDateString('zh-CN',{weekday:'short'}):''}<small>{items.length}</small></h3><AnimatePresence initial={false}>{items.map(row)}</AnimatePresence></section>:null})}{!active.length&&filter!=='已完成'&&<div className="empty"><img src={isDDL?'./brand/deadline.png':'./brand/tasks.png'} alt=""/><p>{isDDL?'没有符合条件的截止任务':'暂无匹配任务'}</p></div>}{completed.length>0&&<><button className="completed-toggle" onClick={()=>E(!expanded)}>{expanded?<ChevronDown/>:<ChevronRight/>}{isDDL?'已完成的截止任务':'已完成'} · {completed.length}</button><AnimatePresence>{expanded&&completed.map(row)}</AnimatePresence></>}</>}</section><div className="composer">{editor}</div></div></div>}
 
 
 

diff --git a/src/time.css b/src/time.css
@@ -2,3 +2,4 @@
 .date-summary{background:transparent;padding:0}.date-summary>.date-chips>button{background:transparent;color:var(--muted);font-size:11px;padding:6px 8px}.date-summary>.date-chips>button:hover{background:var(--hover)}.date-summary .deadline-icon{width:13px;height:13px}.date-popover-shade{position:fixed;inset:0;z-index:45;background:#17121b22;display:flex;align-items:center;justify-content:center;padding:20px}.date-popover{width:300px;max-height:calc(100vh - 50px);overflow:auto;padding:16px;background:var(--bg);border:1px solid var(--line);border-radius:14px;box-shadow:0 12px 44px #0004}.date-popover .plan-title{margin-bottom:12px}.popover-date-label,.popover-options>label{display:flex;flex-wrap:wrap;align-items:center;gap:7px;font-size:11px;margin:12px 0;color:var(--muted)}.popover-date-label input,.popover-options input{width:100%;padding:9px;background:var(--card);border:1px solid var(--line);border-radius:8px;font-size:12px}.popover-more{display:flex;gap:6px;align-items:center;font-size:11px;margin:8px 0;color:var(--muted)}.popover-clear{font-size:11px;color:var(--accent);margin-top:12px}.task small .deadline-icon{width:11px;height:11px}.calendar-grid .deadline-icon{width:9px;height:9px}nav .deadline-icon{width:16px;height:16px}main[data-theme=light] .date-popover{box-shadow:0 12px 44px #6b425224}
 .capture-input{min-height:165px;padding-bottom:48px}.capture-input>.date-summary{position:absolute;right:12px;bottom:8px;margin:0}.capture-input>textarea{min-height:90px}.when-shortcuts{display:flex;flex-direction:column;gap:4px;margin-bottom:12px}.when-shortcuts>button{display:flex;justify-content:space-between;padding:10px;color:var(--fg);font-size:13px}.when-shortcuts span,.someday-shortcut span{color:var(--muted);font-size:11px}.expand-calendar,.someday-shortcut{display:flex;align-items:center;gap:7px;width:100%;padding:10px;font-size:12px}.expand-calendar svg:last-child,.someday-shortcut span{margin-left:auto}.when-month .calendar-head{justify-content:space-between}.when-month .calendar-grid>button{height:29px;font-size:11px}.when-month .calendar-head>button:last-child{margin-left:0}.date-popover{max-height:calc(100vh - 24px);padding:14px}.capture .date-popover{max-height:calc(100vh - 24px)}
 .capture-input>.date-summary.compact>.date-chips>button{font-size:0;gap:0;padding:7px}.capture-input>.date-summary.compact>.date-chips>button svg{width:16px;height:16px}.capture-body>.capture-mascot{pointer-events:none}
+.date-summary{display:flex;justify-content:space-between;align-items:center;width:100%;min-height:30px;gap:6px}.capture-input>.date-summary{left:10px;right:10px;width:auto}.selected-dates{display:flex;flex-wrap:wrap;gap:2px;flex:1;min-width:0}.date-label{display:flex;gap:5px;align-items:center;color:var(--accent-soft);font-size:10px;max-width:100%;padding:5px}.date-label span{overflow:hidden;text-overflow:ellipsis;white-space:nowrap}.date-label svg{width:13px;height:13px}.date-entry-icons{margin-left:auto;flex-shrink:0}.task-capture{width:100%;position:relative;padding:10px 12px 42px;border-radius:12px;background:var(--card);min-height:100px}.task-capture>.date-summary{position:absolute;left:8px;right:8px;bottom:6px;width:auto;margin:0}.task-capture textarea{min-height:45px}.task-capture .date-entry-icons button{font-size:0}.composer{border-top:0;padding-top:0}.placeholder-setting{display:flex;flex-direction:column;gap:8px;font-size:12px;margin-top:24px}.placeholder-setting input{background:var(--card);border-radius:8px;padding:10px;font-size:12px}.placeholder-setting small{font-size:10px;color:var(--muted)}

diff --git a/src/date-summary.ts b/src/date-summary.ts
@@ -1,0 +1,3 @@
+import{day,tomorrow,weekEnd}from'./timeline';
+export function dateSummary(value:string,now=new Date()){if(value===day(now))return 'Today';if(value===tomorrow(now))return 'Tomorrow';const d=new Date(value+'T12:00:00'),weekday=d.toLocaleDateString('zh-CN',{weekday:'short'});if(value>=day(now)&&value<=weekEnd(now))return weekday;return `${weekday}, ${d.toLocaleDateString('en-US',{month:'short'})} ${d.getDate()}`}
+export function daysLeft(value:string,now=new Date()){const [y,m,d]=value.split('-').map(Number),diff=Math.round((Date.UTC(y,m-1,d)-Date.UTC(now.getFullYear(),now.getMonth(),now.getDate()))/86400000);return diff<0?`${-diff} ${diff===-1?'day':'days'} overdue`:`${diff} ${diff===1?'day':'days'} left`}

diff --git a/README.md b/README.md
@@ -1,6 +1,6 @@
 # QuickNote
 
-Windows 本地快速记录与时间待办工具。Electron + React + TypeScript + Vite，无账号和云同步。当前版本 **4.2.1**。
+Windows 本地快速记录与时间待办工具。Electron + React + TypeScript + Vite，无账号和云同步。当前版本 **4.3.0**。
 
 ![Quick Capture](docs/images/capture.png)
 
@@ -29,7 +29,7 @@ npm run build
 npm run dist
 ```
 
-NSIS 输出 release/4.2.1，安装包与 node_modules/dist 均不提交 Git。未配置代码签名。图标构建：node assets/build4.cjs。
+NSIS 输出 release/4.3.0，安装包与 node_modules/dist 均不提交 Git。未配置代码签名。图标构建：node assets/build4.cjs。
 
 ## 本地数据
 
@@ -52,6 +52,9 @@ node_modules/.bin/electron tests/schedule-smoke.cjs
 
 ## 版本管理
 
-main 分支保留可构建版本，版本标签与 package.json 对应。4.1.1 为 Git 初始基线，4.2.1 为紧凑日期浮层与旗帜统一。远端：https://github.com/Yfanx/QuickNote 。
+main 分支保留可构建版本，版本标签与 package.json 对应。4.1.1 为 Git 初始基线，4.3.0 为紧凑日期浮层与旗帜统一。远端：https://github.com/Yfanx/QuickNote 。
 
 全功能自动化回归：npm test。范围与未实机验收项见 [测试报告](docs/TEST_REPORT.md)。
+
+## 日期标签与输入设置
+选择计划或截止日期后，标签动态移到输入框左下角，对应右侧图标淡出。日期显示 Today / Tomorrow / 本周星期 / 跨周星期与英文月份缩写；截止日期附自然日剩余天数，逾期显示 overdue。点击左侧标签可修改或清除。待办底部与主页相同，Enter 直接保存，无加号；保留所在分类/日历默认日期。设置→外观可修改快速记录占位文字，离开输入框即保存，主页与待办同步。GitHub Release 提供 Windows 安装包下载。

diff --git a/docs/TEST_REPORT.md b/docs/TEST_REPORT.md
@@ -1,4 +1,4 @@
-# QuickNote 4.2.1 回归测试
+# QuickNote 4.3.0 回归测试
 
 日期：2026-11-08。使用 npm run build 和 node tests/run.cjs。独立临时 userData，不写入真实用户记录。
 
@@ -10,4 +10,6 @@
 
 未人工验收：物理全局按键跨应用、真实中文输入法、多显示器/高DPI、开机登录、系统通知实际送达、安装程序完整安装。不能把自动化覆盖等同于这些硬件/系统验收。
 
-4.2.1：验证 Someday 清除计划日期并进入以后；验证首页恢复为300高度，月历展开临时480、关闭恢复；主页多余底部按钮已移除。
+4.3.0：验证 Someday 清除计划日期并进入以后；验证首页恢复为300高度，月历展开临时480、关闭恢复；主页多余底部按钮已移除。
+
+4.3.0增加日期摘要/自然日倒计时单元测试与日期标签动画、右侧图标退场、待办直接输入、自定义占位持久化运行检查。日历默认日期回归已覆盖。当前9项单元测试、8组Electron运行检查。
